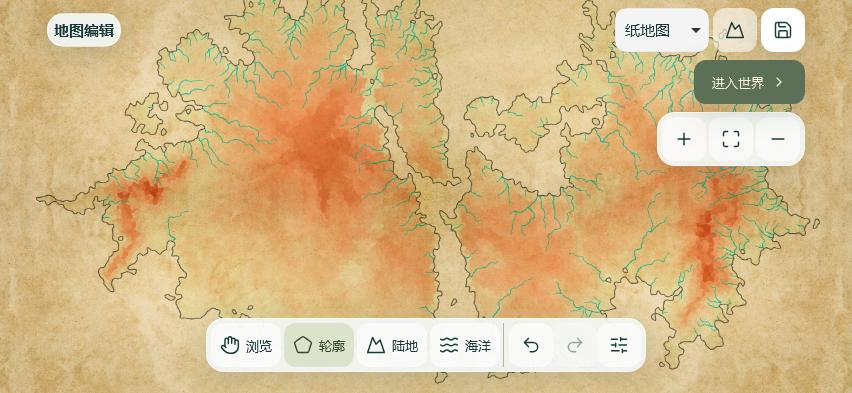
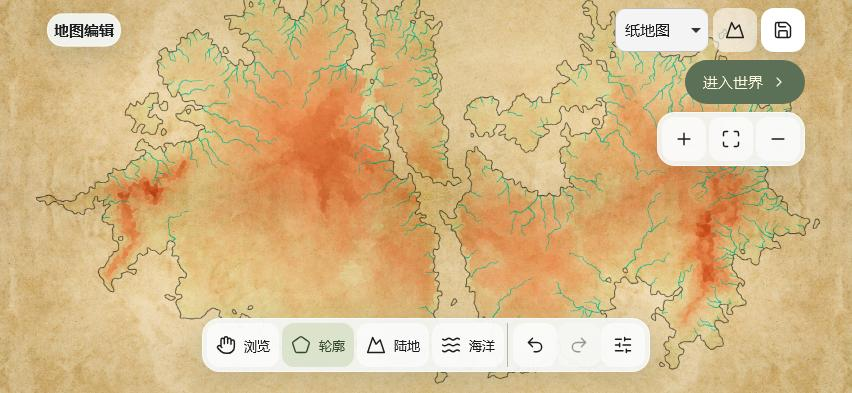
fix(ios): 0.5.46 align controls and unify save sheets

diff --git a/src/fms/ios-polish.css b/src/fms/ios-polish.css
@@ -1,37 +1,95 @@
-/* Shared jade glass language. Small HUD surfaces use a bounded blur; large
-   scrolling sheets are opaque to avoid re-compositing the map behind each row. */
-html:root :is(.c47-app,.fms-app.fms-app){--ink:#183a39;--muted:#596c68;--paper:#f2f5ef;--active:#205c50;--c47-ink:#183a39;--c47-muted:#596c68;color:#183a39;font-family:-apple-system,BlinkMacSystemFont,'Segoe UI','Microsoft YaHei',sans-serif}
-html:root :is(.c47-app,.fms-app.fms-app) :is(button,input,select){border-radius:12px;font-family:inherit}
-html:root :is(.c47-app,.fms-app.fms-app) button:focus-visible{outline:3px solid #207c79;outline-offset:2px}
-html:root .c47-app :is(.c47-panel,.c47-menu,.c47-map-menu,.c47-ai-global,.c47-setup,.c47-confirm,.c47-territory),
-html:root .fms-app.fms-app :is(.fms-generation,.fms-settings,.fms-preview,.fms-confirm){background:#f2f5ef;color:#183a39;border:1px solid #fff;border-radius:22px;box-shadow:0 12px 36px #092e3429;-webkit-backdrop-filter:none;backdrop-filter:none}
-html:root .c47-app :is(.c47-panel,.c47-menu,.c47-map-menu,.c47-ai-global,.c47-setup){padding:16px;line-height:1.5}
-html:root .c47-app :is(h2,h3,h4){font-family:inherit;letter-spacing:0}
-html:root .c47-app :is(input,select){background:#fff;border:1px solid #b9cdc6;color:#183a39;max-width:100%}
-html:root .c47-app button[aria-pressed=true]{background:#d2e7dc;color:#184f43}
-html:root .c47-app :is(.c47-bar,.c47-controls,.c47-rail){background:none;border:0;box-shadow:none;-webkit-backdrop-filter:none;backdrop-filter:none;padding:0;gap:6px}
-html:root .c47-app :is(.c47-bar,.c47-controls,.c47-rail)>button,
-html:root .c47-app .c47-tools-toggle{background:#f3f8f0e8;border:1px solid #ffffffdf;border-radius:18px;box-shadow:0 3px 12px #14363224,inset 0 1px 0 #fff;min-height:44px;min-width:44px;-webkit-backdrop-filter:blur(8px);backdrop-filter:blur(8px)}
-html:root .c47-app .c47-bar>div{display:none}
-html:root .c47-app .c47-bar time{background:#f3f8f0e8;border:1px solid #fff;border-radius:18px;padding:10px;white-space:nowrap;font-variant-numeric:tabular-nums}
-html:root .c47-app .c47-controls{left:50%;right:auto;transform:translateX(-50%);width:max-content;max-width:calc(100% - 32px);height:auto}
-html:root .c47-app .c47-controls>button{flex:none;min-width:48px}
+/* iOS control layer: neutral materials, shared geometry, content-led sheets. */
+html:root :is(.c47-app,.fms-app.fms-app){--ui-ink:#1c1c1e;--ui-secondary:#636366;--ui-accent:#007aff;--ui-surface:#f2f2f7;--ui-line:#3c3c431f;--ui-glass:rgba(250,250,252,.72);--ui-shadow:0 6px 24px #15212b1f,inset 0 1px 0 #ffffffcc;--ink:var(--ui-ink);--muted:var(--ui-secondary);--paper:var(--ui-surface);--active:var(--ui-accent);color:var(--ui-ink);font:15px/1.45 -apple-system,BlinkMacSystemFont,'Segoe UI','Microsoft YaHei',sans-serif;letter-spacing:0}
+html:root :is(.c47-app,.fms-app.fms-app) button{box-sizing:border-box;font:inherit;line-height:1.25;display:inline-flex;align-items:center;justify-content:center;gap:8px;color:var(--ui-ink);border:0;border-radius:12px;box-shadow:none;min-height:44px;text-align:center}
+html:root :is(.c47-app,.fms-app.fms-app) button:focus-visible{outline:3px solid #007aff;outline-offset:3px}
+html:root :is(.c47-app,.fms-app.fms-app) :is(input,select){font:inherit;color:var(--ui-ink);border:1px solid var(--ui-line);border-radius:12px;box-sizing:border-box;background:#fff}
+html:root .c47-app :is(h1,h2,h3,h4){font-family:inherit;letter-spacing:0;color:var(--ui-ink)}
+html:root .c47-app small{color:var(--ui-secondary)}
+html:root .c47-app button[aria-pressed=true]{background:#007aff16;color:#0066d6}
+html:root .c47-app :is(.c47-navigation,.c47-toolbar-actions,.c47-controls,.c47-zoom,.c47-tools-toggle,.c47-rail,.c47-news){background:var(--ui-glass);border:1px solid #ffffffa3;box-shadow:var(--ui-shadow);-webkit-backdrop-filter:blur(16px) saturate(1.45);backdrop-filter:blur(16px) saturate(1.45);border-radius:28px}
+html:root .c47-app .c47-bar{display:flex;align-items:center;justify-content:space-between;gap:12px;left:max(12px,var(--safe-left));right:max(12px,var(--safe-right));top:max(12px,var(--safe-top));height:52px;width:auto;max-width:none;padding:0;border:0;background:none;box-shadow:none;backdrop-filter:none;-webkit-backdrop-filter:none;flex-wrap:nowrap}
+html:root .c47-app .c47-bar>div{display:flex;align-items:center;gap:0;margin:0;padding:3px;min-width:0;height:52px;box-sizing:border-box}
+html:root .c47-app .c47-navigation{flex:0 1 auto}
+html:root .c47-app .c47-toolbar-actions{flex-shrink:0}
+html:root .c47-app .c47-bar time{position:static;transform:none;background:none;margin:0;padding:0 10px 0 2px;border:0;border-radius:0;color:var(--ui-ink);font-size:13px;font-weight:600;white-space:nowrap;line-height:1.2;font-variant-numeric:tabular-nums;min-width:0}
+html:root .c47-app .c47-navigation>strong{padding:0 12px 0 4px;font-size:15px}
+html:root .c47-app :is(.c47-bar,.c47-controls,.c47-zoom)>button,
+html:root .c47-app .c47-bar>div>button{position:relative;display:flex;align-items:center;justify-content:center;gap:0;width:44px;height:44px;min-width:44px;min-height:44px;flex:0 0 44px;padding:0;border:0;border-radius:50%;background:transparent;box-shadow:none}
+html:root .c47-app .c47-bar .c47-bar-label{display:none}
+html:root .c47-app :is(.c47-bar,.c47-controls,.c47-zoom,.c47-tools-toggle) .play-icon{display:block;flex:none;width:22px;height:22px;margin:0}
+html:root .c47-app .c47-unsaved{position:absolute;right:7px;top:7px;width:5px;height:5px;margin:0;border:1px solid #fff;background:#ff9500;border-radius:50%;pointer-events:none}
+html:root .c47-app .c47-controls{display:flex;align-items:center;gap:4px;padding:3px;left:50%;right:auto;bottom:max(12px,var(--safe-bottom));transform:translateX(-50%);width:max-content;height:52px;box-sizing:border-box}
+html:root .c47-app .c47-controls>button{font-size:13px;font-weight:600}
+html:root .c47-app .c47-zoom{padding:3px;gap:0;right:max(12px,var(--safe-right));left:auto;bottom:max(12px,var(--safe-bottom))}
 html:root .c47-app .c47-tools-toggle{display:none}
-@media(max-width:600px),(max-height:500px) and (pointer:coarse){
- html:root .c47-app .c47-bar{height:44px;gap:6px;right:auto;max-width:calc(100% - var(--safe-left) - var(--safe-right) - 16px)}
- html:root .c47-app .c47-bar time{padding:8px 6px;font-size:11px;flex:1}
- html:root .c47-app .c47-bar button{width:44px;padding:8px}
- html:root .c47-app .c47-bar-label{display:none}
- html:root .c47-app .c47-news{top:calc(var(--hud-top) + 52px);left:auto;right:max(8px,var(--safe-right));max-width:calc(100% - var(--safe-left) - var(--safe-right) - 78px);height:36px;min-height:36px;font-size:11px;border-radius:18px;background:#f3f8f0e8;box-shadow:0 2px 8px #14363214;-webkit-backdrop-filter:none;backdrop-filter:none}
- html:root .c47-app .c47-tools-toggle{display:flex;align-items:center;justify-content:center;flex-direction:column;position:absolute;z-index:21;left:max(8px,var(--safe-left));top:calc(var(--hud-top) + 52px);padding:5px;font-size:10px;gap:0}
- html:root .c47-app .c47-tools-toggle svg{width:20px;height:20px}
+html:root .c47-app .c47-news{font-size:12px;color:var(--ui-ink)}
+html:root .c47-app :is(.c47-panel,.c47-menu,.c47-map-menu,.c47-ai-global,.c47-setup,.c47-confirm,.c47-territory,.c47-exit),
+html:root .fms-app.fms-app :is(.fms-generation,.fms-settings,.fms-preview,.fms-confirm){background:#f2f2f7;color:var(--ui-ink);border:1px solid #ffffffb3;border-radius:28px;box-shadow:0 16px 48px #13202e26;-webkit-backdrop-filter:none;backdrop-filter:none;box-sizing:border-box}
+html:root .c47-app :is(.c47-panel,.c47-menu,.c47-map-menu,.c47-ai-global,.c47-setup){padding:20px;line-height:1.5}
+html:root .c47-app :is(.c47-menu,.c47-map-menu,.c47-ai-global)>header{display:flex;align-items:center;justify-content:center;position:sticky;top:-20px;z-index:3;min-height:52px;padding:0 44px;margin:-8px 0 16px;border:0;background:#f2f2f7;text-align:center}
+html:root .c47-app :is(.c47-menu,.c47-map-menu,.c47-ai-global)>header strong{font-size:17px;font-weight:600;line-height:1.3}
+html:root .c47-app :is(.c47-menu,.c47-map-menu,.c47-ai-global)>header button{position:absolute;right:0;top:4px;width:44px;height:44px;padding:0;border-radius:50%;background:#76768012;font-size:24px;line-height:1}
+html:root .c47-app .c47-menu{top:auto;bottom:calc(max(12px,var(--safe-bottom)) + 68px);left:50%;right:auto;transform:translateX(-50%);width:min(440px,calc(100% - var(--safe-left) - var(--safe-right) - 24px));max-width:440px;max-height:calc(100% - var(--safe-top) - var(--safe-bottom) - 156px);height:auto;overflow-y:auto}
+html:root .c47-app .c47-menu :is(.c47-menu-list,.c47-save-list){display:flex;flex-direction:column;gap:1px;background:transparent;padding:0;margin:0}
+html:root .c47-app .c47-menu-list>button,html:root .c47-app .c47-save-list>button{min-height:50px;width:100%;padding:12px 16px;justify-content:flex-start;text-align:left;border:0;background:#fff;border-radius:12px;margin:0 0 6px;color:var(--ui-ink);font-size:15px;box-sizing:border-box}
+html:root .c47-app .c47-menu-list>button small{margin-left:auto;text-align:right;font-size:11px;max-width:55%}
+html:root .c47-app .c47-menu-list>button:last-child,html:root .c47-app .c47-menu-back{justify-content:center;text-align:center;width:100%;background:#7676800f;margin:12px 0 0;min-height:48px;color:#007aff;border:0;border-radius:14px}
+html:root .c47-app .c47-menu :is(.c47-slider,.c47-check){background:#fff;border:0;border-radius:12px;margin:0 0 6px;padding:12px 16px;font-size:14px}
+html:root .c47-app .c47-menu-hint{font-size:13px;font-weight:400;color:var(--ui-secondary);margin:0 0 12px;text-align:center}
+html:root .c47-app .c47-menu :is(.c47-new-save,.c47-save-name){display:flex;flex-direction:column;align-items:stretch;gap:10px;width:100%;margin:0;padding:0}
+html:root .c47-app .c47-save-name{font-size:13px;color:var(--ui-secondary);text-align:left}
+html:root .c47-app .c47-new-save input{width:100%;height:50px;margin:0;padding:12px 14px;font-size:16px;background:#fff;border:1px solid var(--ui-line);text-align:left}
+html:root .c47-app .c47-new-save>div{display:grid;grid-template-columns:1fr;gap:8px;margin-top:12px;width:100%}
+html:root .c47-app .c47-new-save button{width:100%;min-height:50px;margin:0;justify-content:center;text-align:center;border-radius:25px;background:#7676800f;color:#007aff}
+html:root .c47-app .c47-new-save button[type=submit],html:root .c47-app .c47-save-list .c47-create-save{background:#007aff;color:#fff;justify-content:center;text-align:center;font-weight:600;border-radius:25px}
+html:root .c47-app .c47-menu-confirm>div{display:grid;grid-template-columns:1fr 1fr;gap:12px}
+html:root .c47-app .c47-panel :is(.c47-dismiss,.c47-sheet-size){width:44px;height:44px;min-height:44px;top:12px;background:#76768012;border:0;border-radius:50%;padding:0;line-height:1}
+html:root .c47-app .c47-panel .c47-dismiss{right:12px}html:root .c47-app .c47-panel .c47-sheet-size{right:64px}
+html:root .c47-app .c47-identity{padding-right:80px;margin:0 0 16px;min-height:44px;align-items:center}
+html:root .c47-app .c47-identity h2{font:600 20px/1.3 -apple-system,BlinkMacSystemFont,'Segoe UI','Microsoft YaHei',sans-serif}
+html:root .c47-app .c47-identity p{font-size:12px;color:var(--ui-secondary)}
+html:root .c47-app input:is([type=range],[type=checkbox]){accent-color:#007aff}
+html:root .c47-app .c47-primary,html:root .fms-app.fms-app :is(.fms-generation-submit,.play-entry){background:#007aff;color:#fff;border:0;border-radius:24px}
+@media(max-width:900px){
+ html:root .c47-app{--hud-top:max(12px,var(--safe-top));--hud-bottom:max(12px,var(--safe-bottom))}
+ html:root .c47-app .c47-tools-toggle{position:absolute;z-index:21;display:flex;align-items:center;justify-content:center;left:max(12px,var(--safe-left));top:calc(var(--hud-top) + 64px);width:48px;height:48px;min-height:48px;padding:0}
+ html:root .c47-app .c47-tools-toggle span{display:none}
+ html:root .c47-app .c47-news{top:calc(var(--hud-top) + 68px);right:max(12px,var(--safe-right));left:auto;transform:none;width:auto;max-width:calc(100% - var(--safe-left) - var(--safe-right) - 88px);height:40px;min-height:40px;padding:8px 12px;box-sizing:border-box}
  html:root .c47-app .c47-rail{display:none}
- html:root .c47-app .c47-rail.c47-rail-open{display:grid;grid-template-columns:repeat(3,56px);gap:6px;top:calc(var(--hud-top) + 104px);bottom:auto;max-height:calc(100% - var(--hud-top) - var(--hud-bottom) - 168px);padding:8px;border-radius:22px;background:#edf4ecef;z-index:22}
- html:root .c47-app .c47-rail button{width:56px;height:56px;min-height:56px;border-radius:14px;padding:4px;display:flex;flex-direction:column;justify-content:center;align-items:center}
- html:root .c47-app .c47-rail button span{display:block;font-size:10px}
- html:root .c47-app .c47-controls{left:50%;right:auto;transform:translateX(-50%);width:max-content;height:auto}
- html:root .c47-app .c47-zoom{bottom:var(--hud-bottom)}
- html:root .c47-app :is(.c47-panel,.c47-menu,.c47-map-menu,.c47-ai-global,.c47-setup){padding:14px}
+ html:root .c47-app .c47-rail.c47-rail-open{display:grid;grid-template-columns:repeat(3,60px);gap:8px;top:calc(var(--hud-top) + 124px);left:max(12px,var(--safe-left));bottom:auto;max-height:calc(100% - var(--hud-top) - var(--hud-bottom) - 190px);height:max-content;overflow-y:auto;padding:12px;z-index:22;border-radius:28px}
+ html:root .c47-app .c47-rail button{display:flex;flex-direction:column;justify-content:center;align-items:center;gap:5px;width:60px;height:60px;min-height:60px;padding:6px;background:#ffffff50;border-radius:18px;color:var(--ui-ink)}
+ html:root .c47-app .c47-rail button span{display:block;font-size:11px}
+ html:root .c47-app :is(.c47-panel,.c47-map-menu,.c47-ai-global,.c47-territory){left:12px;right:12px;width:auto;max-width:none;bottom:calc(var(--hud-bottom) + 68px);max-height:calc(100% - var(--hud-top) - var(--hud-bottom) - 192px);top:auto;padding:20px;border-radius:28px}
+ html:root .c47-app .c47-panel{height:auto}
+ html:root .c47-app .c47-zoom{bottom:var(--hud-bottom);display:flex;flex-direction:column}
 }
-@media(prefers-reduced-transparency:reduce){html:root .c47-app :is(.c47-bar,.c47-controls,.c47-rail)>button,html:root .c47-app .c47-tools-toggle{background:#f2f5ef;-webkit-backdrop-filter:none;backdrop-filter:none}}
-@media(prefers-reduced-motion:reduce){html:root :is(.fms-app,.c47-app) *{scroll-behavior:auto;animation:none;transition:none}}
+@media(max-height:500px) and (pointer:coarse){
+ html:root .c47-app :is(.c47-menu,.c47-panel,.c47-map-menu,.c47-ai-global,.c47-territory){top:calc(var(--hud-top) + 64px);bottom:calc(var(--hud-bottom) + 64px);max-height:calc(100% - var(--hud-top) - var(--hud-bottom) - 128px);height:auto;left:50%;right:auto;transform:translateX(-50%);width:min(440px,calc(100% - var(--safe-left) - var(--safe-right) - 148px))}
+ html:root .c47-app .c47-zoom{flex-direction:row}
+ html:root .c47-app .c47-rail.c47-rail-open{grid-template-columns:repeat(4,60px);max-height:calc(100% - var(--hud-top) - var(--hud-bottom) - 190px)}
+}
+@media(prefers-reduced-transparency:reduce){html:root .c47-app :is(.c47-navigation,.c47-toolbar-actions,.c47-controls,.c47-zoom,.c47-tools-toggle,.c47-rail,.c47-news){background:#f2f2f7;backdrop-filter:none;-webkit-backdrop-filter:none}}
+@media(prefers-reduced-motion:reduce){html:root :is(.fms-app,.c47-app) *{animation:none;transition:none;scroll-behavior:auto}}
+
+html:root .c47-app button.c47-tools-toggle{border-radius:50%;background:var(--ui-glass);border:1px solid #ffffffa3;box-shadow:var(--ui-shadow)}
+html:root .c47-app button.c47-menu-scrim{position:absolute;inset:0;z-index:30;width:100%;height:100%;border:0;border-radius:0;background:#00000026;box-shadow:none;backdrop-filter:none;-webkit-backdrop-filter:none;transform:none;padding:0;cursor:default}
+html:root .c47-app .c47-menu{z-index:40}
+html:root .c47-app .c47-notice{background:#f2f2f7;color:#1c1c1e;border:0;border-radius:18px;font-size:13px;box-shadow:0 4px 16px #0002}
+html:root .c47-app .c47-menu .c47-slider output{color:var(--ui-secondary)}
+
+html.ios-shell:root .c47-app .c47-menu:has(input:focus){bottom:max(8px,var(--safe-bottom));top:auto;max-height:calc(100% - var(--safe-bottom) - 16px)}
+/* Shared secondary controls retain semantic warning colours, not old theme borders. */
+html:root .c47-app :is(.c47-offices-enter,.c47-rts-enter){border:0;border-radius:14px;min-height:48px;font-weight:500}
+html:root .c47-app .c47-offices-enter{background:#007aff12;color:#0066d6}
+html:root .c47-app .c47-rts-enter{background:#ff3b3010;color:#c52b23}
+html:root .c47-app .c47-action-grid button{border:0;border-radius:12px;background:#fff;min-height:44px;color:#1c1c1e}
+html:root .c47-app .c47-segment{background:#7676801a;border-radius:10px;padding:3px}
+html:root .c47-app .c47-segment button{min-height:36px;border-radius:8px;font-size:13px}
+html:root .c47-app .c47-segment button[aria-pressed=true]{background:#fff;color:#1c1c1e;box-shadow:0 1px 4px #00000015}
+html:root .fms-app.fms-app .fms-generation>header{background:none;border-color:var(--ui-line)}
+html:root .fms-app.fms-app .fms-grid-list label.selected{background:#007aff0d;border-color:#007aff55}
+html:root .fms-app.fms-app :is(input[type=checkbox],input[type=radio],input[type=range]){accent-color:#007aff}
+html:root .fms-app.fms-app .fms-generation :is(h2,legend){color:#1c1c1e}
+html:root .fms-app.fms-app .fms-generation-submit{background:#007aff;border-radius:24px;min-height:48px;font-weight:600}
+
+html:root :is(.c47-app,.fms-app.fms-app) :is(input,select):focus-visible{outline:2px solid #007aff;outline-offset:2px}

diff --git a/src/fms/play/CultureWorld47.tsx b/src/fms/play/CultureWorld47.tsx
@@ -700,7 +700,7 @@ export function CultureWorld47({terrain,onClose,entryNotice}:{terrain:FmsDocumen
   return <main ref={appRoot} className="c47-app" data-testid="culture47-app" data-day={r?.world.day} data-tick={r?.clock.tick} data-advancing={advancing}>
     <div className="c47-map" ref={host}/>
     {renderFault&&<div className="c47-render-recovery" role="alert"><span>{renderFault}</span><button onClick={()=>{setRenderFault('');setRendererEpoch(n=>n+1);}}>重新显示地图</button></div>}
-    <header className="c47-bar"><button aria-label="返回绘图" disabled={busy} onClick={requestClose}><PlayIcon name="back"/></button><div><strong>列国纪</strong><small>{r?'真实文化世界':'创建文明'}</small></div>{r&&<>{display.timeDisplay&&<CultureCalendar47 worldId={r.id} startDate={r.life.startDate} tick={()=>motion.current.tick(performance.now())}/>}<button aria-label="地图样式" title="地图样式与视图（数字键1—6）" aria-expanded={mapMenu} aria-pressed={mapMenu} onClick={()=>setMapMenu(v=>!v)}><PlayIcon name="layers"/><span className="c47-bar-label">图层</span></button><button aria-label="菜单选项" title="菜单选项" aria-pressed={menu!==null} onClick={()=>setMenu(m=>m?null:'menu')}><PlayIcon name="more"/><span className="c47-bar-label">菜单</span></button><button aria-label="保存文化世界" disabled={busy||locked} onClick={()=>void save()}><PlayIcon name="save"/><span className="c47-bar-label">存档</span>{lastSaved.current!==snapshot.journal.actions.length&&<i className="c47-unsaved"/>}</button></>}</header>
+    <header className="c47-bar"><div className="c47-navigation"><button aria-label="返回绘图" disabled={busy} onClick={requestClose}><PlayIcon name="back"/></button>{!r&&<strong>创建世界</strong>}{r&&display.timeDisplay&&<CultureCalendar47 worldId={r.id} startDate={r.life.startDate} tick={()=>motion.current.tick(performance.now())}/>}</div>{r&&<div className="c47-toolbar-actions"><button aria-label="地图样式" title="地图样式与视图（数字键1—6）" aria-expanded={mapMenu} aria-pressed={mapMenu} onClick={()=>setMapMenu(v=>!v)}><PlayIcon name="layers"/><span className="c47-bar-label">图层</span></button><button aria-label="菜单选项" title="菜单选项" aria-pressed={menu!==null} onClick={()=>setMenu(m=>m?null:'menu')}><PlayIcon name="more"/><span className="c47-bar-label">菜单</span></button><button aria-label="保存文化世界" disabled={busy||locked} onClick={()=>void save()}><PlayIcon name="save"/><span className="c47-bar-label">存档</span>{lastSaved.current!==snapshot.journal.actions.length&&<i className="c47-unsaved"/>}</button></div>}</header>
     {r&&<><button className="c47-tools-toggle" aria-label="展开工具栏" aria-expanded={toolsOpen} aria-controls="world-tools" onClick={()=>setToolsOpen(v=>!v)}><PlayIcon name="more"/><span>工具</span></button><nav id="world-tools" className={`c47-rail${toolsOpen?' c47-rail-open':''}`} aria-label="工具栏" onClick={e=>{if((e.target as HTMLElement).closest('button'))setToolsOpen(false);}}><button aria-label="国家" title="国家详情" aria-pressed={panel==='nation'} onClick={()=>{setMilitary(false);setTerritoryNation(null);setPanel(panel==='nation'?null:'nation');}}><PlayIcon name="nation"/><span>国家</span></button><button aria-label="军事模式" title="军队与舰队" aria-pressed={military} onClick={()=>{setTerritoryNation(null);setMilitary(v=>!v);setTargetMode(null);setPanel(military?null:'military');}}><PlayIcon name="army"/><span>军事</span></button><button aria-label="查看大事记" title="大事记" aria-pressed={panel==='history'} onClick={()=>{setHistoryEpoch(n=>n+1);setHistoryFocus(null);setPanel(panel==='history'?null:'history');}}><PlayIcon name="book"/><span>历史</span></button><button aria-label="统计" title="统计排行" aria-pressed={panel==='ranking'} onClick={()=>{setMilitary(false);setTerritoryNation(null);setPanel(panel==='ranking'?null:'ranking');}}><PlayIcon name="ranking"/><span>排行</span></button><button aria-label="编辑国家" title="编辑国家" aria-pressed={territoryNation!==null} disabled={busy||locked} onClick={()=>{if(territoryNation!==null){setTerritoryNation(null);return;}setMilitary(false);setTargetMode(null);setPanel(null);const alive=r.world.nations.find(n=>n.id===nationId&&r.world.provinces.some(p=>p.controller===n.id))??r.world.nations.find(n=>r.world.provinces.some(p=>p.controller===n.id))!;setTerritoryNation(alive.id);setNotice('编辑国家：点击地图，把行省划入所选国家。');}}><PlayIcon name="edit"/><span>编辑</span></button><button aria-label="AI全局配置" title="AI全局配置" aria-pressed={aiGlobalOpen} onClick={()=>setAIGlobalOpen(v=>!v)}><PlayIcon name="settings"/><span>AI</span></button><button aria-label="生成地图" title="生成地图（随机新世界）" disabled={busy||locked} onClick={()=>setGenerateConfirm(true)}><PlayIcon name="generate"/><span>生成</span></button></nav></>}
     {r&&generateConfirm&&<div className="c47-confirm" role="alertdialog" aria-label="生成地图"><p>会删除当前地图</p><small>按当前的国家数、城市数和文化设置随机生成新世界；已保存的存档不受影响。</small><div><button onClick={()=>void generateNewWorld()}>是</button><button onClick={()=>setGenerateConfirm(false)}>否</button></div></div>}
     {r&&mapMenu&&<section className="c47-map-menu" aria-label="地图样式">

diff --git a/src/fms/play/CultureMenu47.tsx b/src/fms/play/CultureMenu47.tsx
@@ -1,4 +1,5 @@
 import {Fragment,useEffect,useState} from 'react';
+import {PlayIcon} from './PlayIcon';
 import {AUTOSAVE_MAX_MINUTES,AUTOSAVE_MIN_MINUTES,clampAutoSaveMinutes,type Culture47Config} from './culture47-config';
 import {gameAudio47,useAudio47} from '../audio/audio47';
 import {CultureCloud47} from './CultureCloud47';
@@ -54,7 +55,7 @@ export function CultureMenu47({busy,hasWorld,unsaved,initial,config,onConfig,onS
     case 'library':body=<>
       <p className="c47-menu-hint">选择存档</p>
       <div className="c47-save-list" role="list" aria-label="存档列表">
-        {view.mode==='save'&&<button role="listitem" disabled={busy} onClick={()=>setView({kind:'new-save',name:defaultSaveName47()})}>New Save</button>}
+        {view.mode==='save'&&<button role="listitem" disabled={busy} onClick={()=>setView({kind:'new-save',name:defaultSaveName47()})} className="c47-create-save"><PlayIcon name="plus"/>新建存档</button>}
         {saves===null?<small>正在读取存档…</small>:saves.map(s=><button role="listitem" key={s.name} disabled={busy||!!s.locked} title={s.locked} onClick={()=>setView(view.mode==='save'?{kind:'overwrite',name:s.name}:{kind:'load-or-delete',name:s.name})}><span>{s.name}</span><small>{s.locked??savedAtText(s.savedAt)}</small></button>)}
         {saves?.length===0&&view.mode==='load'&&<small>暂无存档</small>}
       </div>
@@ -62,7 +63,7 @@ export function CultureMenu47({busy,hasWorld,unsaved,initial,config,onConfig,onS
       <button className="c47-menu-back" onClick={back}>关闭</button>
     </>;break;
     case 'new-save':body=<form className="c47-new-save" onSubmit={e=>{e.preventDefault();void save(view.name);}}>
-      <input aria-label="存档名称" value={view.name} maxLength={120} onChange={e=>setView({kind:'new-save',name:e.target.value})}/>
+      <label className="c47-save-name">存档名称<input aria-label="存档名称" value={view.name} maxLength={120} onChange={e=>setView({kind:'new-save',name:e.target.value})}/></label>
       <div><button type="submit" disabled={busy}>保存游戏</button><button type="button" onClick={()=>library('save')}>关闭</button></div>
     </form>;break;
     case 'overwrite':body=confirm(`是否覆盖该存档？存档：${view.name}`,()=>void save(view.name),()=>library('save'));break;
@@ -131,8 +132,8 @@ export function CultureMenu47({busy,hasWorld,unsaved,initial,config,onConfig,onS
     </div>;break;
   }
   const title=view.kind==='cloud'?'云存档':view.kind==='menu'||view.kind==='autosave'||view.kind==='other'||view.kind==='display'||view.kind.startsWith('export')?'菜单选项':'存档管理';
-  return <section className="c47-menu" role="dialog" aria-label={title}>
-    <header><strong>{title}</strong><button aria-label="关闭菜单选项" onClick={onClose}>×</button></header>
+  return <><button className="c47-menu-scrim" aria-label="关闭菜单背景" tabIndex={-1} onClick={onClose}/><section className="c47-menu" data-view={view.kind} role="dialog" aria-label={title}>
+    <header><strong>{title}</strong><button aria-label="关闭菜单选项" onClick={onClose}><PlayIcon name="close"/></button></header>
     <Fragment key={view.kind}>{body}</Fragment>
-  </section>;
+  </section></>;
 }

diff --git a/tests/fms-visual-alignment.spec.ts b/tests/fms-visual-alignment.spec.ts
@@ -19,7 +19,12 @@ test('all primary surfaces share bounded aligned panels',async({page},info)=>{
  };
  await page.goto('/?fms=1');await capture('01-generation',page.locator('.fms-generation'));
  await enter(page);await capture('02-world-setup',page.locator('.c47-setup'));
- await create(page);if(await page.getByRole('button',{name:'暂停时间',exact:true}).isVisible())await page.getByRole('button',{name:'暂停时间',exact:true}).click();
+ await create(page);
+ const saveIcon=page.getByRole('button',{name:'保存文化世界',exact:true});
+ const buttonBox=(await saveIcon.boundingBox())!,iconBox=(await saveIcon.locator('.play-icon').boundingBox())!;
+ expect(Math.abs(buttonBox.x+buttonBox.width/2-iconBox.x-iconBox.width/2)).toBeLessThanOrEqual(1);
+ expect(Math.abs(buttonBox.y+buttonBox.height/2-iconBox.y-iconBox.height/2)).toBeLessThanOrEqual(1);
+ if(await page.getByRole('button',{name:'暂停时间',exact:true}).isVisible())await page.getByRole('button',{name:'暂停时间',exact:true}).click();
  await tool(page,'国家');
  const panel=page.locator('.c47-panel');await capture('03-nation',panel);
  const family=panel.locator('details').filter({has:page.locator('.c47-family-people')}).first();await family.locator('summary').click();
@@ -36,7 +41,14 @@ test('all primary surfaces share bounded aligned panels',async({page},info)=>{
  await tool(page,'编辑国家');await capture('12-territory',page.locator('.c47-territory'));await page.getByRole('button',{name:'完成编辑',exact:true}).click();
  await page.getByRole('button',{name:'菜单选项',exact:true}).click();const menu=page.locator('.c47-menu');await capture('13-menu',menu);
  for(const [button,name] of [['地图外观','14-display'],['自动保存','15-autosave'],['云存档','16-cloud'],['加载游戏','17-load'],['保存游戏','18-save'],['导出','19-export']]){
-  await menu.getByRole('button',{name:new RegExp('^'+button)}).click();await capture(name,menu);await menu.getByRole('button',{name:'关闭',exact:true}).click();
+  await menu.getByRole('button',{name:new RegExp('^'+button)}).click();await capture(name,menu);
+  if(name==='18-save'){
+   await menu.getByText('新建存档',{exact:true}).click();await capture('18a-save-form',menu);
+   const input=(await menu.getByRole('textbox',{name:'存档名称'}).boundingBox())!,submit=(await menu.getByRole('button',{name:'保存游戏',exact:true}).boundingBox())!;
+   expect(Math.abs(input.x-submit.x)).toBeLessThanOrEqual(1);expect(Math.abs(input.width-submit.width)).toBeLessThanOrEqual(1);
+   await menu.getByRole('button',{name:'关闭',exact:true}).click();
+  }
+  await menu.getByRole('button',{name:'关闭',exact:true}).click();
  }
  await menu.getByRole('button',{name:'关闭菜单选项',exact:true}).click();
  await tool(page,'生成地图');await capture('20-confirm',page.locator('.c47-confirm'));await page.getByRole('button',{name:'否',exact:true}).click();

diff --git a/tests/fms-ios-render.spec.ts b/tests/fms-ios-render.spec.ts
@@ -91,6 +91,23 @@ test('iPhone bundled editor → world, safe areas and local saves', async ({ pag
   ]) {
     if(['国家','军事模式','查看大事记','统计','编辑国家','AI全局配置','生成地图'].includes(open))await tool(page,open);else await page.getByRole('button', { name:open, exact:true }).click();
     await expect(page.locator(panel)).toBeVisible();
+    if(open==='菜单选项'){
+      const dialog=page.locator('.c47-menu');
+      await dialog.getByRole('button',{name:'保存游戏',exact:true}).click();
+      await dialog.getByText('新建存档',{exact:true}).click();
+      const input=dialog.getByRole('textbox',{name:'存档名称'});await input.fill('iOS 对齐验证');
+      await page.screenshot({path:info.outputPath('save-form.png')});
+      await page.screenshot({path:`docs/ios-proof/${info.project.name}-save.jpg`,quality:80,scale:'css'});
+      const field=(await input.boundingBox())!,save=(await dialog.getByRole('button',{name:'保存游戏',exact:true}).boundingBox())!;
+      expect(Math.abs(field.x-save.x)).toBeLessThanOrEqual(1);expect(Math.abs(field.width-save.width)).toBeLessThanOrEqual(1);
+      await input.focus();await page.evaluate(()=>document.documentElement.style.setProperty('--keyboard-inset','220px'));
+      await dialog.getByRole('button',{name:'保存游戏',exact:true}).scrollIntoViewIfNeeded();
+      await expect(dialog.getByRole('button',{name:'保存游戏',exact:true})).toBeInViewport();
+      await page.evaluate(()=>document.documentElement.style.setProperty('--keyboard-inset','0px'));await input.blur();
+      await dialog.getByRole('button',{name:'保存游戏',exact:true}).click();
+      await expect(dialog).toHaveCount(0);await expect(page.locator('.c47-notice')).toContainText('已保存');
+      continue;
+    }
     await expect(page.getByRole('button', { name:close, exact:true })).toBeInViewport();
     await page.getByRole('button', { name:close, exact:true }).click();
   }

diff --git a/docs/ios-proof/UI_ALIGNMENT_046.md b/docs/ios-proof/UI_ALIGNMENT_046.md
@@ -1,0 +1,27 @@
+# 0.5.46 界面对齐记录
+
+目标：修正用户指出的存档按钮偏心、界面不统一和不可下载交付。基线 main cbceec9e（0.5.45）；保留现有游戏和 iOS 资源修复，未修改模拟规则。
+
+## 对齐关系
+
+| 元素 | 旧问题 | 本版约束与证据 |
+|---|---|---|
+| 顶栏存档图标 | 未保存小点作为 flex 子项挤偏图标 | 小点绝对定位；按钮与图标中心 X/Y 差不超过 1 CSS px，三尺寸测试通过 |
+| 顶栏功能 | 多个独立方块，尺寸/背景混用 | 返回和日期组成左胶囊；图层/菜单/保存组成右胶囊；按钮统一 44px，图标 22px |
+| 播放、缩放、工具 | 不同圆角与内边距 | 共用中性半透明材质；播放组合居中，工具入口为圆形 |
+| 存档标题 | 左对齐与关闭按钮挤在同一行 | 52px 标题区居中；关闭按钮固定右侧，独立 44px 点击目标 |
+| 新建存档 | 表单宽度不一致，过大空白 | 输入框与提交按钮左右边界一致；内容高度面板，上限 440px；蓝色主按钮、灰底次按钮 |
+| 图层与内容 | 地图文字透进表单，工具叠在菜单上 | 内容面板不透明，玻璃仅用于小控制区；菜单位于遮罩之上，地图无法误触 |
+| 横屏与输入 | 存档操作可能被键盘挤出 | 受安全区约束，模拟键盘占用 220px 后滚动访问保存按钮；WebKit 实际命名存档保存成功 |
+
+## 视觉方向
+
+参考 Apple Liquid Glass 的控制层与内容层分离、中性材料、清晰文字和分组工具栏。使用系统字体、系统蓝操作强调色和分组灰底表单。这里是 WebView 内的 CSS 实现，不宣称原生 UIKit 材料或逐像素复现系统折射效果。
+
+## 检查范围
+
+- 21 个主要界面状态：生成、开局、国家、人物、官职、陆军、海军、历史、排行、图层、AI、国家编辑、菜单、外观、自动保存、云存档、加载、保存列表、新存档表单、导出、确认框。
+- Chromium 三尺寸操作与对齐断言；软件渲染截图用于布局，不用于推断真机性能。
+- WebKit 手机 393×852 / 852×393：地图像素、工具与面板、命名保存、重载恢复、键盘空间模拟。新增 ios-portrait-save.jpg 与 ios-landscape-save.jpg。
+- 物理 iPhone 键盘、原生玻璃材质和 120Hz 性能仍未真机验收。
+- 发布包将作为 GitHub Release 资源提供 HTTPS 下载；本地路径不作为唯一交付方式。

diff --git a/CHANGELOG.md b/CHANGELOG.md
@@ -2,6 +2,23 @@
 
 每个版本发布到正式站（Cloudflare Pages，main 分支）后在此记录。
 
+## 0.5.46 — 2026-10-28
+
+### 修改
+- 重做界面控制层：中性玻璃胶囊工具组、系统蓝主操作、统一按钮与图标尺寸。
+- 存档面板标题居中、关闭按钮固定右侧，输入框与保存按钮等宽；内容高度面板减少空白，横屏居中。
+- 内容面板不透明，菜单增加遮罩，避免地图文字透入及工具覆盖。
+
+### 修复
+- 未保存圆点移为绝对定位，不再挤偏存档图标。三尺寸断言图标中心偏差不超过 1 CSS px。
+- 新建存档本地化；键盘空间收缩时面板可滚动到保存按钮。
+
+### 验证与已知问题
+- 21 状态视觉旅程桌面、手机、平板通过；WebKit 横竖屏通过，实际命名保存、恢复及 220px 键盘空间模拟通过。
+- 已运行 npm run check：lint、类型、全量单测、生产构建通过；浏览器 1 通过、1 失败、208 未运行，失败仍为 fms-annex66 点击旧隐藏国家列表。
+- 本版是 UI 修正版，不代表真机性能问题已解决。IPA 内置资源、离线运行核心游戏，但仍采用 Capacitor/WKWebView，尚非 SwiftUI/Metal 原生游戏。用户反馈真机仍严重卡顿，后续必须按实际设备定位，不能宣称 120fps。
+- 不修改模拟规则和存档结构。交付增加 GitHub Release IPA 附件，不再仅提供本地路径。
+
 ## 0.5.45 — 2026-10-28
 
 iOS 悬浮操作、玉山图标与显示性能优化。基于最新 0.5.44 iOS 地图修复分支继续集成，保留包内纹理、Worker 与安全区修复。

diff --git a/docs/CLAUDE_CODEX_HANDOFF.md b/docs/CLAUDE_CODEX_HANDOFF.md
@@ -224,3 +224,7 @@
 - 用户要求交付未签名包，使用现有手动 ios-unsigned 工作流；无需改动签名凭据。
 
 - 发布代码提交 bbab8c94 已推送；Cloudflare build.json 已核对 0.5.45 / bbab8c940a3730580ffe011daa637c9afe140b2e。手动未签名构建 run 40803232933 已启动，包验证结果以该运行和本轮最终回复为准。
+
+### 2026-10-28 · 0.5.46 UI 纠正
+- 修正存档图标偏心、表单对齐、混合主题与菜单遮挡，详见 docs/ios-proof/UI_ALIGNMENT_046.md。
+- 用户最新反馈：本地 IPA 仍像 PPT；当前 Capacitor 内置资源不等于原生渲染，性能未验收。已请求设备型号/系统/卡顿时机，下一批须实际测量渲染与模拟耗时，不能重复声称取消 30Hz 即完成优化。
